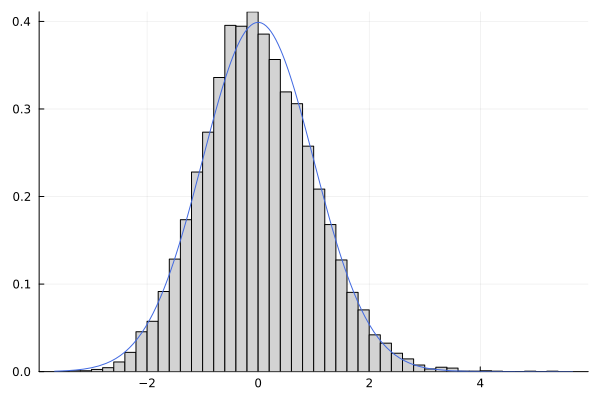
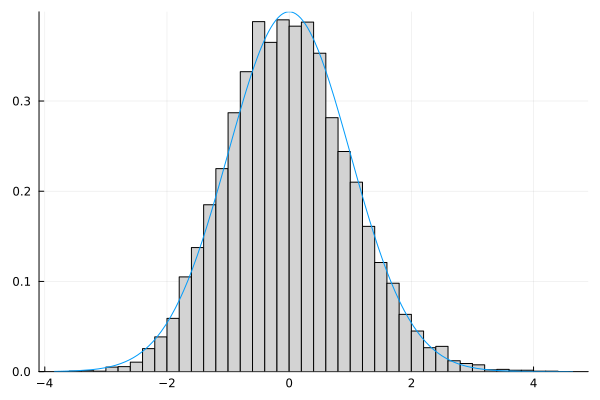
fix typo in 'skewness'

Changed region(s): [[0.0, 0.03, 0.93, 0.96]]

diff --git a/articles/skewness_kurtosis.md b/articles/skewness_kurtosis.md
@@ -195,7 +195,7 @@ plot!(x->pdf(E1,x), 0,4, label="Exponential", linestyle=:dash,tick_direction=:ou
 ```julia
 outE11 = simCLT(E1,  10, 10000)
 h = histogram(outE11, legend=false, normalize=:pdf, color="lightgray")
-plot!(h, x->pdf(Normal(),x), color="royalblue")
+plot!(h, x->pdf(Normal(),x), color=col1[1])
 ```
 
 ![](/images/skewness_kurtosis/hist3.png)
@@ -205,7 +205,7 @@ $n=100 ~(=10^2)$ くらいまで大きくすると近づいてくる．
 ```julia
 outE12 = simCLT(E1, 100, 10000)
 h = histogram(outE12, legend=false, normalize=:pdf, color="lightgray")
-plot!(h, x->pdf(Normal(),x), color="royalblue")
+plot!(h, x->pdf(Normal(),x), color=col1[1])
 ```
 
 ![](/images/skewness_kurtosis/hist4.png)
